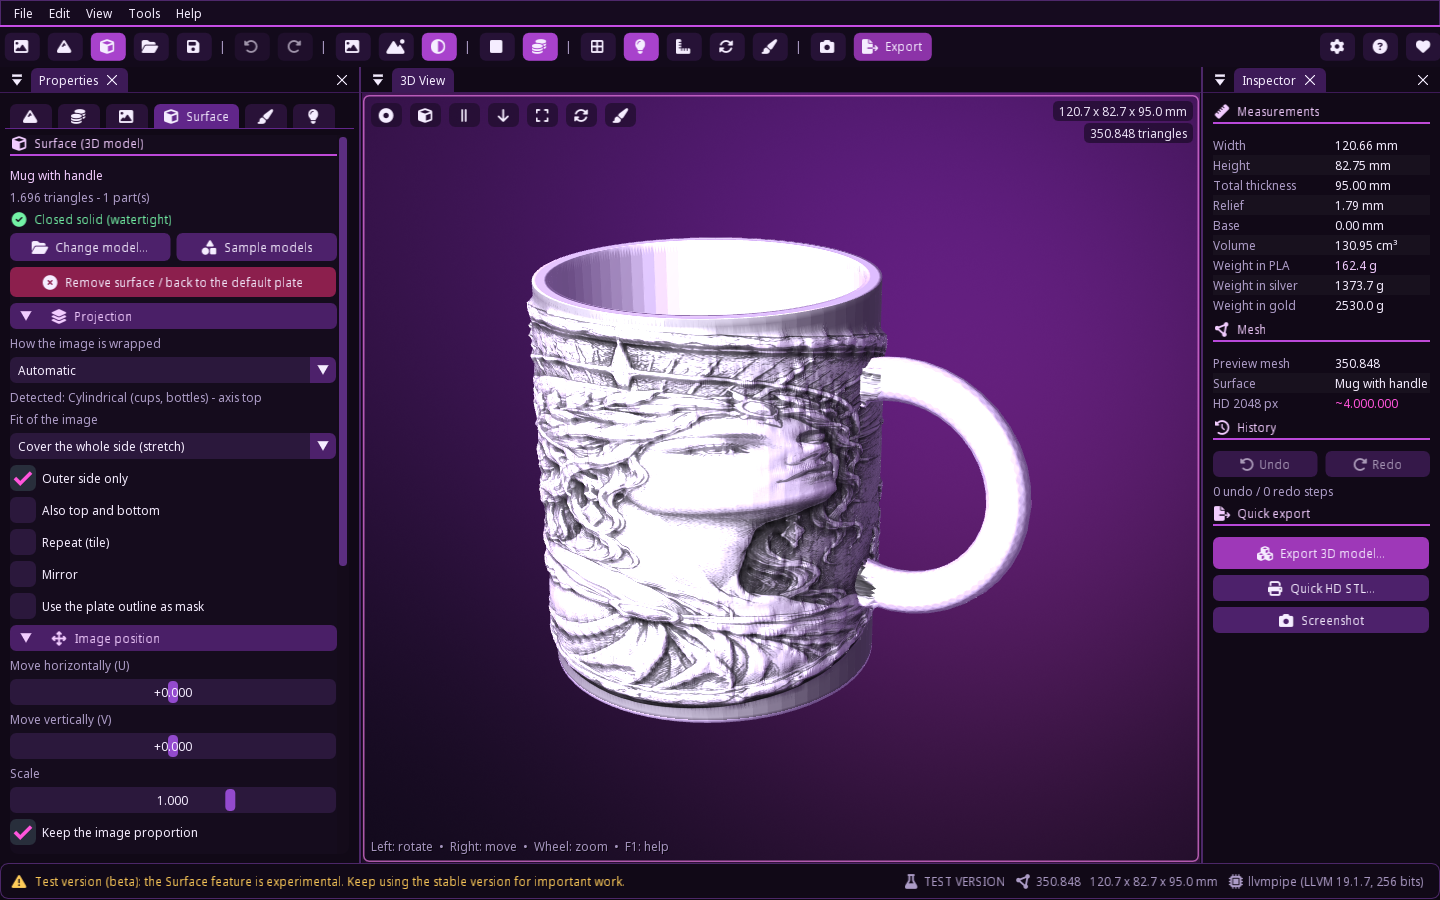
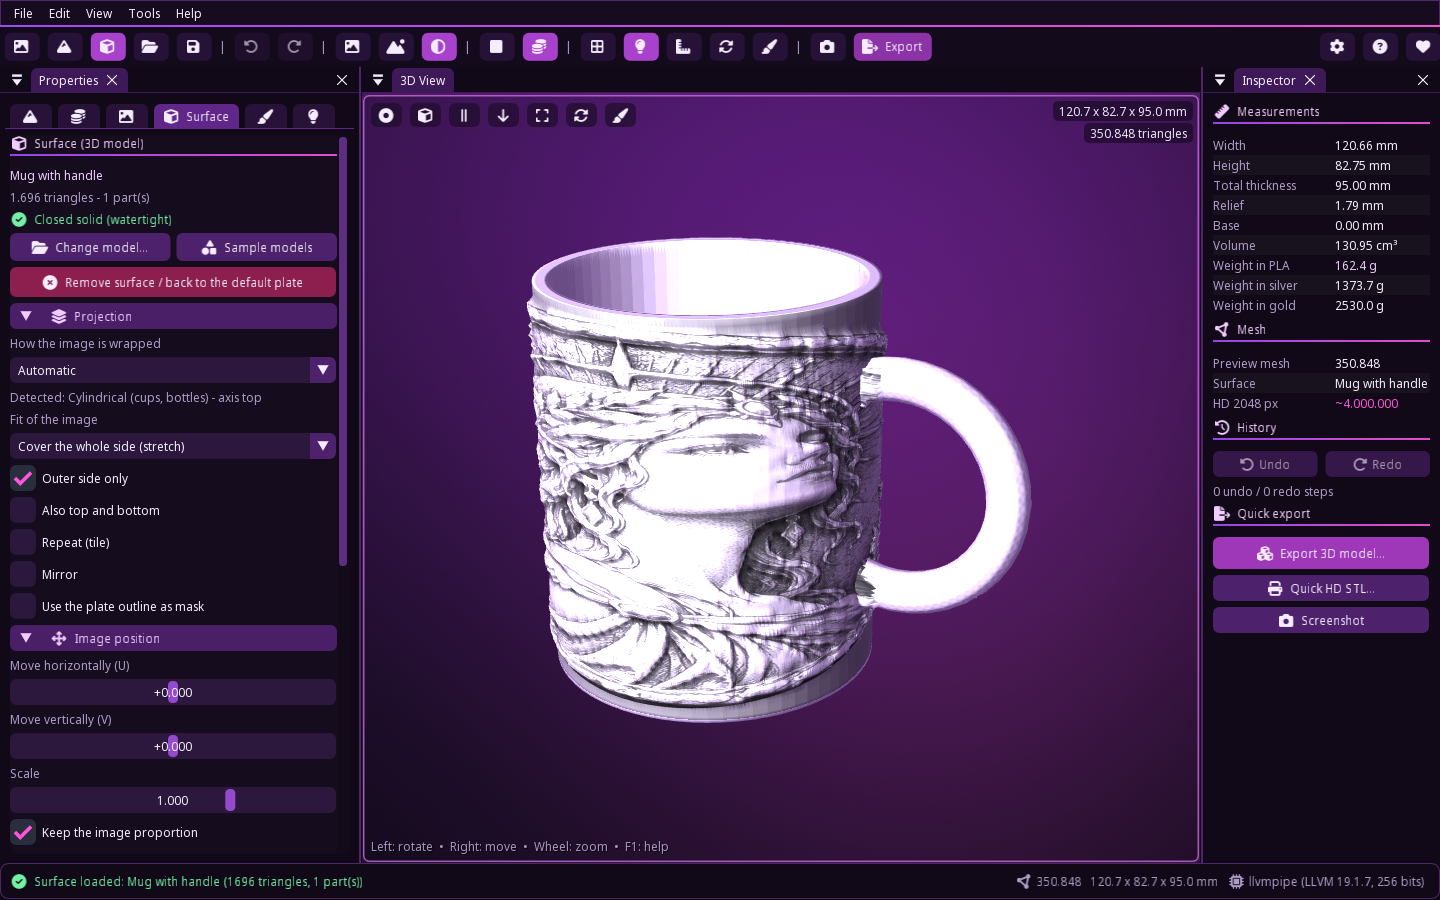
README/CHANGELOG for 1.1.0: Surface tab, Windows + Linux downloads and builds, new screenshots

Changed region(s): [[0.0, 0.9644, 0.4375, 0.9956], [0.7812, 0.9644, 1.0, 0.9956], [0.625, 0.9644, 0.75, 0.9956]]

diff --git a/README.md b/README.md
@@ -6,7 +6,8 @@
 
 <p align="center">
   <b>Transforme uma imagem + mapa de altura em um relevo 3D pronto para imprimir:</b><br>
-  moedas, medalhas, placas, azulejos e recortes — com exportação HD fechada (watertight).
+  moedas, medalhas, placas, azulejos, recortes e agora também <b>sobre objetos 3D</b> (copos, canecas, vasos...)<br>
+  — com exportação HD fechada (watertight) para Windows e Linux.
 </p>
 
 <p align="center">
@@ -41,6 +42,12 @@
   **prévia do contorno** ao vivo.
 - **Textura** — ajuste (esticar/conter/preencher), escala, deslocamento, rotação e **alinhamento automático**;
   visualização textura / altura / **mistura**; salvar e carregar alinhamento (compatível com o placa3d).
+- **Superfície (objetos 3D)** — nova aba **Superfície**: importe um modelo 3D (OBJ+MTL, STL, PLY, GLB/glTF,
+  3MF, OFF ou DAE) ou escolha um dos **12 modelos de exemplo** e a textura **e** o relevo são aplicados sobre
+  ele — por exemplo, a imagem cobre um copo inteiro. Projeções automática, UV do modelo, cilíndrica, esférica,
+  plana, caixa e decalque; mover, escalar, proporção X/Y separada, girar, emenda, repetir, espelhar;
+  **exportação tudo mesclado** em um único modelo (também em HD) e **"Remover superfície / voltar à placa
+  padrão"** com um clique.
 - **Modelagem** — pincéis de escultura (elevar, rebaixar, suavizar, aplainar, apagar), **desfazer/refazer**,
   espelhar, girar 90°, recortar, medidas reais em **mm** (volume e peso em PLA/prata/ouro), cotas, grade, giro automático.
 - **Exportação** — STL (binário/ASCII), OBJ + MTL + textura, GLB / glTF, PLY com cores, **3MF**, OFF,
@@ -61,37 +68,97 @@
 | ![Medalha](docs/screenshots/medal_gold.png) | ![Exportar](docs/screenshots/export.png) | ![Escultura](docs/screenshots/sculpt.png) |
 | ![Recorte](docs/screenshots/shape_cutout.png) | ![Sobre](docs/screenshots/about.png) | ![日本語](docs/screenshots/lang_ja.png) |
 
-## 🧪 Versão de teste (beta): Importar superfície
+## 🧊 Superfície: relevo sobre objetos 3D (novo na 1.1)
 
-> ⚠ **Experimental.** A versão estável continua sendo a **1.0.3** (branch `main`). A versão de teste
-> **1.1.0-beta.1** é publicada como *pré-lançamento* a partir do branch `dev/surface` e mostra o selo
-> "VERSÃO DE TESTE" no app.
+Além das camadas de **textura** e **relevo**, a aba **Superfície** coloca a textura e o relevo da placa sobre
+um objeto 3D. Nada foi removido: ao abrir, o Nimcale continua com a moeda padrão e a superfície é um extra.
 
-A nova aba **Superfície** aplica a textura **e** o relevo atuais sobre um objeto 3D (copo, garrafa, caixa...),
-sem remover nenhuma opção existente. Ao abrir, o app continua mostrando a moeda padrão, sem superfície.
+1. Abra a aba **Superfície** (ou *Arquivo → Importar superfície*, `Ctrl+Shift+U`, ou arraste o arquivo 3D
+   para a janela) e importe um modelo — ou clique em um dos **Modelos de exemplo**.
+2. A projeção é escolhida sozinha (cilindro para copos e garrafas, esfera, objeto plano, caixa) e a imagem
+   cobre a lateral inteira. Ajuste à vontade: **mover**, **escala**, **proporção de largura/altura separadas**,
+   rotação, posição da emenda, repetir (ladrilhar), espelhar, só a face externa / também topo e fundo,
+   usar o contorno da placa como máscara.
+3. O relevo usa a profundidade, inverter e suavização de sempre e desloca a superfície pelas normais com
+   subdivisão adaptativa (controle de **detalhe**). O modelo pode ser girado, redimensionado (mm) e colorido.
+4. **Exporte tudo mesclado** em um único modelo: STL, OBJ + MTL + textura, GLB/glTF, PLY, 3MF ou OFF, inclusive
+   na **exportação HD** (até 4 milhões de triângulos). Se o modelo importado era fechado, o resultado também é.
+5. Quer voltar? **Remover superfície / voltar à placa padrão** (botão vermelho na aba ou menu *Arquivo*) —
+   pode desfazer com `Ctrl+Z`, e todos os ajustes da placa/moeda continuam como estavam.
 
-- **Formatos:** OBJ (+MTL), STL, PLY, GLB/glTF, 3MF, OFF e DAE (Collada). FBX **não** é suportado.
-- **12 modelos de exemplo:** copo, caneca com alça, garrafa, vaso, bola, caixa, lata, prato, chaveiro,
-  placa tipo capinha, porta-canetas e cúpula de luminária.
-- Projeções automática, UV do modelo, cilíndrica, esférica, plana, caixa (triplanar) e decalque; ajuste,
-  posição, escala, proporção X/Y, rotação, emenda, repetir, espelhar, máscara pelo recorte da placa.
-- Relevo deslocando a superfície pelas normais com subdivisão adaptativa; exportação tudo mesclado
-  (STL, OBJ, GLB/glTF, PLY, 3MF, OFF, também em HD), fechado se o modelo original for fechado.
-- **Remover superfície / voltar à placa padrão** com um clique (desfazível), mantendo todos os ajustes.
+| Formato | Importar superfície | | Modelos de exemplo |
+|---|---|---|---|
+| OBJ (+MTL), STL, PLY | ✅ | | copo, caneca com alça, garrafa, vaso, |
+| GLB / glTF, 3MF, OFF | ✅ | | bola, caixa, lata, prato, chaveiro, |
+| DAE (Collada) | ✅ | | placa tipo capinha, porta-canetas, |
+| FBX | ❌ (converta para GLB/OBJ, ex.: no Blender) | | cúpula de luminária |
 
-| Caneca | Caixa (repetir) |
-|---|---|
-| ![Caneca](docs/screenshots/surface_mug.png) | ![Caixa](docs/screenshots/surface_box.png) |
+Modelos grandes (mais de 2 milhões de triângulos) são simplificados ao importar; vários objetos no mesmo
+arquivo são unidos; metros são convertidos para mm; normais que faltam são calculadas.
 
-## 📥 Download (Windows)
+| Caneca | Caixa (repetir) | Vaso |
+|---|---|---|
+| ![Caneca](docs/screenshots/surface_mug.png) | ![Caixa](docs/screenshots/surface_box.png) | ![Vaso](docs/screenshots/surface_vase.png) |
+| ![Modelos de exemplo](docs/screenshots/surface_samples.png) | ![Copo (pt-BR)](docs/screenshots/surface_cup_pt.png) | ![Linux](docs/screenshots/linux_main.png) |
 
-Baixe o `Nimcale-<versão>-windows-x64.zip` da **[versão estável mais recente](https://github.com/cleitinhodev/nimcale/releases/latest)**,
-extraia a pasta e execute **`Nimcale.exe`**. Não precisa instalar nada.
+## 📥 Download
+
+Tudo na **[versão estável mais recente](https://github.com/cleitinhodev/nimcale/releases/latest)** — não
+precisa instalar nada. Versões de teste (marcadas como *pré-lançamento*) ficam em
+[todas as versões](https://github.com/cleitinhodev/nimcale/releases).
+
+### 🪟 Windows 10 / 11 (64 bits)
+
+1. Baixe `Nimcale-<versão>-windows-x64.zip`.
+2. Extraia a pasta e execute **`Nimcale.exe`**.
 
 > O executável ainda não é assinado digitalmente: se o Windows SmartScreen avisar, clique em
-> *Mais informações → Executar assim mesmo*.
+> *Mais informações → Executar assim mesmo*. Sem placa de vídeo compatível, o Nimcale usa o Mesa
+> llvmpipe incluído automaticamente.
 
-Configurações e log ficam em `%APPDATA%\Nimcale` (no Linux: `~/.config/Nimcale`).
+Configurações e log: `%APPDATA%\Nimcale`. Exportações e capturas: `Documentos\Nimcale`.
+
+### 🐧 Linux (x86_64)
+
+Funciona em distribuições com **glibc 2.35 ou mais nova** (Ubuntu 22.04+, Linux Mint 21+, Debian 12+,
+Fedora 36+, openSUSE Tumbleweed, Arch...) com OpenGL 3.3 (Mesa ou driver da NVIDIA/AMD/Intel), em X11 ou Wayland
+(via XWayland). Há duas opções:
+
+**AppImage (um arquivo só):**
+
+```bash
+chmod +x Nimcale-<versão>-x86_64.AppImage
+./Nimcale-<versão>-x86_64.AppImage
+```
+
+> AppImage precisa do FUSE 2. Se aparecer *"dlopen(): error loading libfuse.so.2"*, instale `libfuse2`
+> (Ubuntu 22.04: `sudo apt install libfuse2`; Ubuntu 24.04+: `sudo apt install libfuse2t64`) ou rode sem FUSE:
+> `./Nimcale-<versão>-x86_64.AppImage --appimage-extract-and-run`.
+
+**tar.gz (pasta):**
+
+```bash
+tar -xzf Nimcale-<versão>-linux-x86_64.tar.gz
+cd Nimcale-<versão>-linux-x86_64
+chmod +x Nimcale          # normalmente já vem executável
+./Nimcale
+./install.sh              # opcional: adiciona o Nimcale (com ícone) ao menu de aplicativos
+                          # remover do menu: ./install.sh --uninstall
+```
+
+Pacotes do sistema (a maioria das distribuições com desktop já tem). Se faltar algo, no Ubuntu/Debian:
+
+```bash
+sudo apt install libgl1 libegl1 libgl1-mesa-dri libxrandr2 libxinerama1 libxcursor1 libxi6 libxkbcommon0
+# opcionais: zenity (janelas de erro), xdg-utils (abrir links/pastas), x11-utils (barra de título escura)
+```
+
+Fedora: `sudo dnf install mesa-libGL mesa-libEGL mesa-dri-drivers libXrandr libXinerama libXcursor libXi`.
+Sem driver de vídeo funcionando (VMs, servidores): `./Nimcale --software` usa o Mesa llvmpipe do sistema
+(o Nimcale também troca sozinho se o driver falhar).
+
+Configurações e log: `~/.config/Nimcale` (ou `$XDG_CONFIG_HOME/Nimcale`). Exportações e capturas:
+`~/Documents/Nimcale` (ou `~/Nimcale`).
 
 ## ⌨ Atalhos principais
 
@@ -100,6 +167,7 @@ Configurações e log ficam em `%APPDATA%\Nimcale` (no Linux: `~/.config/Nimcale
 | Ctrl+O | importar textura + mapa | Ctrl+Shift+O | abrir projeto |
 | Ctrl+T / Ctrl+M | importar textura / mapa de altura | Ctrl+S / Ctrl+Shift+S | salvar projeto |
 | Ctrl+E | janela de exportação | Ctrl+Shift+E | STL HD rápido |
+| Ctrl+Shift+U | importar superfície (objeto 3D) | | |
 | Ctrl+Z / Ctrl+Y | desfazer / refazer | Ctrl+Q | **sair** |
 | T | textura / altura / mistura | B | placa / recorte do objeto |
 | F | wireframe | U | iluminação |
@@ -129,7 +197,11 @@ pip install -r requirements.txt
 python -m nimcale                       # moeda padrão
 python -m nimcale textura.png altura.png
 python -m nimcale projeto.nimcale
+python -m nimcale --surface caneca.obj  # já abre com uma superfície (ou um exemplo: --surface mug)
 ```
+
+Precisa do Python 3.10–3.13. No Linux, instale também os pacotes do sistema listados no download
+(e `python3-venv` no Ubuntu/Debian).
 
 Opções úteis: `--software` (força o renderizador Mesa), `--gpu`, `--lang en`, `--reset-layout`,
 `--selftest`, `--shot arquivo.png` (captura de tela e sai), `--version`.
@@ -142,29 +214,51 @@ python -m pytest
 ```
 
 Os testes cobrem o pipeline do relevo, malhas fechadas para todas as formas, todos os formatos de exportação
-(verificados com `trimesh`), a exportação HD (milhões de triângulos, sólido fechado), escultura, desfazer/refazer,
-idiomas completos e configurações.
+(verificados com `trimesh`), a exportação HD (milhões de triângulos, sólido fechado), o recorte automático,
+a camada **Superfície** (importação dos 8 formatos, projeções, deslocamento, exportação mesclada fechada, HD,
+remover/voltar à placa com desfazer), escultura, desfazer/refazer, idiomas completos e configurações.
 
 ### Gerar o executável do Windows
 
 - **No Windows:** `.\scripts\build_windows.ps1` (precisa do Python 3.10–3.13 e do 7-Zip).
 - **No Linux com Wine:** `scripts/build_wine.sh` (Python do Windows dentro do Wine, ver o script).
-- **GitHub Actions:** cada push compila e testa no `windows-latest`; ao enviar uma tag `v*` o zip é anexado ao release.
 
 O build usa PyInstaller (`nimcale.spec`) e baixa o Mesa llvmpipe com `scripts/fetch_mesa.py`.
+
+### Gerar o build do Linux
+
+```bash
+pip install -r requirements-dev.txt        # inclui o PyInstaller
+python -m PyInstaller --noconfirm --clean nimcale.spec      # -> dist/Nimcale/Nimcale
+scripts/package_linux.sh dist/Nimcale .    # -> Nimcale-<versão>-linux-x86_64.tar.gz (+ AppImage)
+scripts/ci_smoke_linux.sh dist/Nimcale     # testes de fumaça (precisa de xvfb-run)
+```
+
+O AppImage é gerado se o `appimagetool` estiver no PATH (ou em `APPIMAGETOOL=/caminho`); para pular use
+`--no-appimage`. Para rodar em distribuições mais antigas, compile na mais antiga que quiser suportar
+(o CI usa Ubuntu 22.04). O Python precisa ter a biblioteca compartilhada (`libpython3.x.so`).
+
+### GitHub Actions
+
+Cada push compila e testa no **Windows** (`windows-latest`) e no **Linux** (`ubuntu-22.04`): testes
+unitários, build com PyInstaller e testes de fumaça que **abrem o programa compilado** (Windows: probe do GPU,
+Mesa, inicialização real, selftest; Linux: o mesmo sob `xvfb` com Mesa llvmpipe, mais uma captura da caneca
+de exemplo e o AppImage). Ao publicar uma tag `v*`, o zip do Windows, o tar.gz e o AppImage do Linux são
+anexados ao release.
 
 ## 📁 Estrutura
 
 ```
 nimcale/
-  core/      imagens, parâmetros, pipeline do relevo, formas, malha fechada, alinhamento
+  core/      imagens, parâmetros, pipeline do relevo, formas, malha fechada, alinhamento, superfície 3D
   export/    escritores STL/OBJ/GLB/PLY/3MF/OFF/PNG e o trabalho de exportação HD
   tools/     histórico (desfazer/refazer) e escultura
   render/    câmera, shaders e renderizador moderngl
   ui/        tema, fontes, painéis, janelas, viewport, menus/barra de ferramentas
   i18n/      traduções (locales/*.json)
-  assets/    ícones, fontes, moeda padrão
-scripts/     build, fontes, ícones, Mesa, verificação de traduções
+  assets/    ícones, fontes, moeda padrão, modelos de exemplo (samples/*.ply)
+packaging/   Linux: nimcale.desktop e install.sh
+scripts/     build (Windows/Linux), empacotamento, testes de fumaça, fontes, ícones, Mesa, exemplos, traduções
 tests/       testes pytest
 ```
 
@@ -194,6 +288,13 @@ cut-out shapes — and exports **watertight high-definition meshes**.
 - Relief controls: depth, base thickness, smoothing, threshold, brightness/contrast, levels, gamma curve,
   invert, noise and detail enhancement; cutout shapes (image outline, circle, ellipse, rounded rectangle,
   hexagon, octagon) with rim and bevel; presets (coin, medal, plate, contour, tile).
+- **New in 1.1 — Surface tab:** put the texture **and** relief onto a 3D model. Import OBJ (+MTL), STL, PLY,
+  GLB/glTF, 3MF, OFF or DAE (no FBX), or pick one of **12 sample models** (cup, mug with handle, bottle, vase,
+  ball, box, can, plate, keychain tag, phone-case slab, pen holder, lamp shade). Automatic / UV / cylindrical /
+  spherical / planar / box / decal projection; move, scale, separate X/Y proportion, rotation, seam, tile,
+  mirror, outer wall only; displacement along the normals with adaptive subdivision; **merged export** of
+  everything in one model (also HD, watertight when the input is closed); one-click, undoable
+  **Remove surface / back to the default plate** that keeps every plate setting. Startup is still the default coin.
 - Texture fit/scale/offset/rotation, **auto-align**, texture/height/**mix** views, alignment save/load.
 - **Automatic cutout** that follows each imported image (dark / white / transparent / picked-colour background,
   height map, texture alpha or texture colour key) with fine tuning and a live outline preview.
@@ -203,26 +304,37 @@ cut-out shapes — and exports **watertight high-definition meshes**.
   normal map, texture PNG, turntable **GIF**, HD/transparent screenshots.
 - **HD export** independent of the preview (up to 6144 samples on the longest side, millions of triangles),
   bicubic upsampling, progress + cancel, verified closed solid, optional adaptive decimation.
-- `.nimcale` projects, recent files, drag & drop.
+- `.nimcale` projects (surfaces included), recent files, drag & drop of images and 3D models.
 - Modern docking UI with an animated purple/pink neon theme (can be disabled), a native title bar that follows
   the OS light/dark theme (or dark / light / theme colour), and **12 languages**
   with auto-detection (pt-BR default, English fallback).
-- OpenGL 3.3 with automatic fallback to the bundled **Mesa llvmpipe** software renderer.
+- OpenGL 3.3 with automatic fallback to software rendering (bundled **Mesa llvmpipe** on Windows, the
+  system Mesa on Linux).
 
-**Test version (beta) - Import surface:** the pre-release **1.1.0-beta.1** (branch `dev/surface`, marked
-as a test build; stable stays **1.0.3**) adds a *Surface* tab that puts the texture and relief onto a 3D
-model (OBJ+MTL, STL, PLY, GLB/glTF, 3MF, OFF, DAE; no FBX) with automatic / UV / cylindrical / spherical /
-planar / box / decal projection, placement controls, displacement along normals, 12 sample models, merged
-watertight export (also HD) and a one-click *Remove surface* that returns to the normal plate.
+**Download** from [the latest stable release](https://github.com/cleitinhodev/nimcale/releases/latest):
 
-**Download:** get `Nimcale-<version>-windows-x64.zip` from
-[the latest stable release](https://github.com/cleitinhodev/nimcale/releases/latest), extract and run `Nimcale.exe`.
+- **Windows 10/11 x64:** `Nimcale-<version>-windows-x64.zip` — extract and run `Nimcale.exe`
+  (unsigned: on a SmartScreen warning click *More info → Run anyway*). Settings/log: `%APPDATA%\Nimcale`.
+- **Linux x86_64** (glibc 2.35+: Ubuntu 22.04+, Mint 21+, Debian 12+, Fedora 36+...; OpenGL 3.3 via Mesa or
+  the GPU vendor driver; X11 or Wayland through XWayland):
+  - AppImage: `chmod +x Nimcale-<version>-x86_64.AppImage && ./Nimcale-<version>-x86_64.AppImage`
+    (needs FUSE 2: `sudo apt install libfuse2` / `libfuse2t64` on Ubuntu 24.04+, or add `--appimage-extract-and-run`).
+  - tar.gz: `tar -xzf Nimcale-<version>-linux-x86_64.tar.gz && cd Nimcale-<version>-linux-x86_64 && ./Nimcale`;
+    `./install.sh` adds it with its icon to the application menu (`./install.sh --uninstall` removes it).
+  - If libraries are missing (Ubuntu/Debian): `sudo apt install libgl1 libegl1 libgl1-mesa-dri libxrandr2
+    libxinerama1 libxcursor1 libxi6 libxkbcommon0`. No working GPU driver: `./Nimcale --software`.
+  - Settings/log: `~/.config/Nimcale`; exports: `~/Documents/Nimcale`.
 
-**From source:** `pip install -r requirements.txt` then `python -m nimcale [texture heightmap | project.nimcale]`.
+**From source** (Python 3.10–3.13): `pip install -r requirements.txt` then
+`python -m nimcale [texture heightmap | project.nimcale] [--surface model.obj|mug]`.
 Tests: `pip install -r requirements-dev.txt && python -m pytest`.
-Windows build: `scripts/build_windows.ps1`, `scripts/build_wine.sh` or the GitHub Actions workflow.
+Windows build: `scripts/build_windows.ps1`, `scripts/build_wine.sh` or GitHub Actions.
+Linux build: `python -m PyInstaller --noconfirm --clean nimcale.spec && scripts/package_linux.sh dist/Nimcale .`
+(tar.gz, plus an AppImage when `appimagetool` is available); smoke tests: `scripts/ci_smoke_linux.sh dist/Nimcale`.
+CI builds and smoke-tests both (Windows on `windows-latest`, Linux on `ubuntu-22.04` under xvfb) and attaches
+all packages to tagged releases.
 
 **Note:** `Esc` no longer quits (it closes windows / leaves sculpt mode). Use **Ctrl+Q** to quit.
 
 **License:** GPL-3.0-or-later. Third-party notices in [THIRD_PARTY_NOTICES.md](THIRD_PARTY_NOTICES.md).
-Website: <https://www.bugzinho.com/> · Donate: <https://www.bugzinho.com/donate>
+Website: <https://www.bugzinho.com/> · Project: <https://github.com/cleitinhodev/nimcale> · Donate: <https://www.bugzinho.com/donate>

diff --git a/CHANGELOG.md b/CHANGELOG.md
@@ -3,6 +3,43 @@
 All notable changes to Nimcale are documented here. Format based on [Keep a Changelog](https://keepachangelog.com/),
 versions follow [Semantic Versioning](https://semver.org/).
 
+## [1.1.0] - 2026-11-11
+
+Stable. Promotes the 1.1.0-beta.1 test build (Surface layer) to the stable version and adds a Linux build.
+
+### Added
+- **Surface (3D model) layer** - everything from [1.1.0-beta.1](#110-beta1---2026-11-11-test-pre-release-branch-devsurface),
+  now stable: *Surface* tab, import of OBJ (+MTL), STL, PLY, GLB/glTF, 3MF, OFF and DAE (no FBX), 12 sample
+  models in a *Sample models* picker, automatic / UV / cylindrical / spherical / planar / box / decal
+  projections, placement controls (fit, move, scale, separate X/Y proportion, rotation, seam, tile, mirror,
+  plate-outline mask, outer wall only / top and bottom), displacement along the normals with adaptive
+  subdivision, merged export in every 3D format including HD (watertight when the input is closed), and a
+  one-click undoable **Remove surface / back to the default plate**. Startup is still the default coin.
+- **Linux x86_64 build** (built on Ubuntu 22.04, glibc 2.35+):
+  - `Nimcale-<version>-linux-x86_64.tar.gz` (folder with the program, icons, `nimcale.desktop` and an
+    `install.sh` that adds Nimcale with its icon to the application menu of the current user) and
+    `Nimcale-<version>-x86_64.AppImage` (single file).
+  - Window / taskbar icon and `WM_CLASS` (`nimcale` / `Nimcale`) so the desktop matches the window with the
+    `.desktop` file; dark title bar via `_GTK_THEME_VARIANT` on X11.
+  - OpenGL 3.3 probe in a child process on Linux too, with automatic fallback to the system Mesa
+    llvmpipe software renderer (`--software` forces it).
+  - Error dialogs through `zenity` / `kdialog` when available; links and folders open with `xdg-open`
+    using the user's original library path (not the bundled one).
+  - Settings and log in `~/.config/Nimcale` (`$XDG_CONFIG_HOME`), exports in `~/Documents/Nimcale`.
+- CI: a Linux job (unit tests under xvfb, PyInstaller build, tar.gz + AppImage packaging and smoke tests that
+  launch the packaged binary and the AppImage under xvfb with Mesa: GL probes, first/second start, software
+  renderer screenshot, surface sample screenshot, selftest). Tagged releases get the Windows zip, the
+  tar.gz and the AppImage.
+- The frozen-build selftest also checks the Surface layer (all 8 import formats and a watertight export).
+
+### Changed
+- Version 1.1.0: the "test version" badge, start-up notice and About line only appear in pre-release builds.
+- README and docs updated (Surface tab, downloads and build instructions for Windows and Linux).
+
+### Fixed
+- DAE (Collada) import in the packaged builds (pycollada's schema files were missing).
+- Stable builds crashed while setting the window title (a test-build-only import shadowed the translator).
+
 ## [1.1.0-beta.1] - 2026-11-11 (test pre-release, branch `dev/surface`)
 
 **Experimental test build** published as a GitHub *pre-release* from the `dev/surface` branch. The stable
